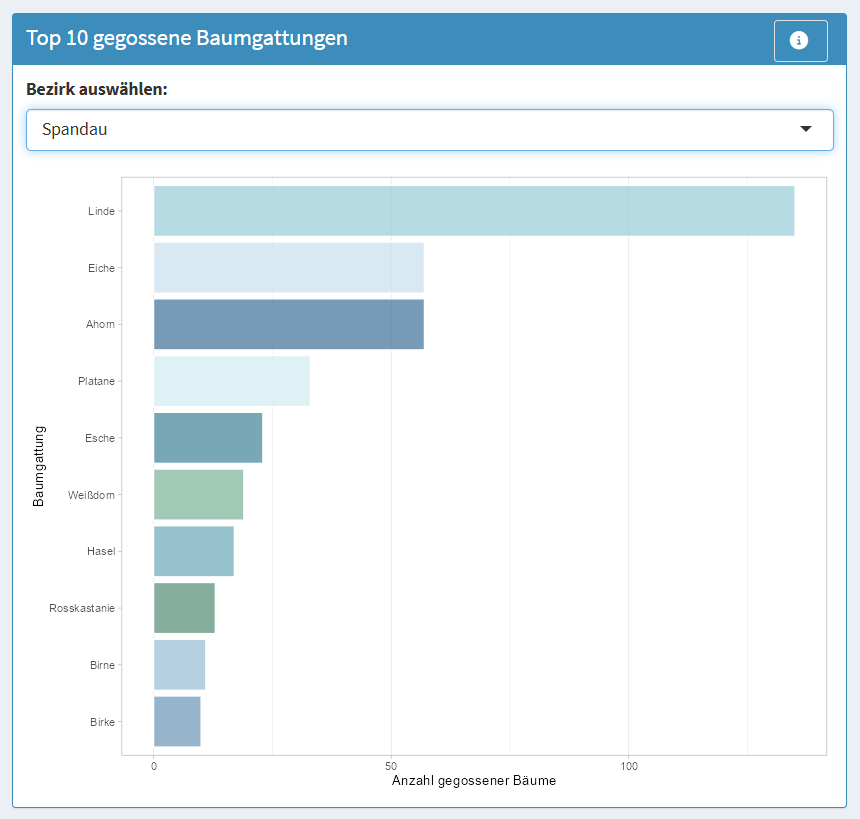
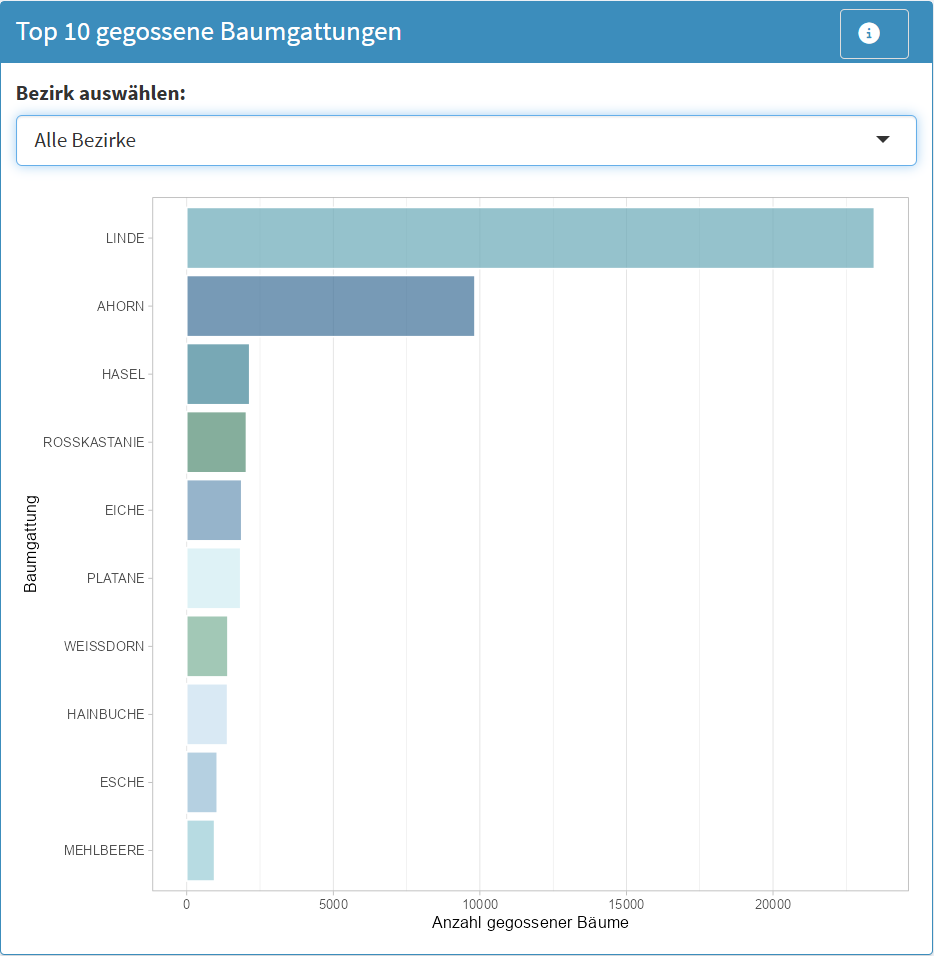
Sprache umgestellt, screenshot ausgewechselt und  manuell Nummerierte References zu Abbildungen mit automatischen ersetzt

diff --git a/dashboard/Übung_Baumstatistik.md b/dashboard/Übung_Baumstatistik.md
@@ -49,8 +49,8 @@ Damit soll die Grundlage geschaffen werden, zu verstehen, welche strukturellen F
 
 ```{figure} ../assets/Dashboard_Baumstatistik_1.png
 ---
-name: Dashboard Karte
-alt: Ein Screenshot, der zeigt Dashboard Karte
+name: Baumverteilung nach Bezirken mit Baumgattungen
+alt: Gestapeltes Balkendiagramm
 width: 600px
 ---
 Baumverteilung nach Bezirken und Baumgattungen. Die Abbildung zeigt die Verteilung der Bäume in den Berliner Bezirken, aufgeschlüsselt nach Baumgattungen. Die Anzahl der Bäume ist für jeden Bezirk als gestapeltes Balkendiagramm dargestellt, wobei die einzelnen Farbsegmente unterschiedliche Baumgattungen repräsentieren. Über einen Schieberegler kann die Anzahl der angezeigten, häufigsten Baumgattungen (Top-N) interaktiv angepasst werden, während weniger häufige Gattungen unter „Sonstige“ zusammengefasst sind. (Quelle: eigene Ausarbeitung)
@@ -60,8 +60,8 @@ Das obenstehende Diagramm ist ein Balkendiagramm, genauer gesagt ein gestapeltes
 
 ```{figure} ../assets/Dashboard_Baumstatistik_2.png
 ---
-name: Dashboard Karte
-alt: Ein Screenshot, der zeigt Dashboard Karte
+name: Verteilung der Baumgattungen
+alt: Kreisdiagramm mit Anteilen der Baumgattungen am Gesamtbestand
 width: 600px
 ---
 Verteilung der Baumgattungen. Die Abbildung zeigt die prozentuale Verteilung der Baumgattungen im Berliner Baumbestand in Form eines Kreisdiagramms. Über ein Auswahlfeld kann der betrachtete Bezirk festgelegt werden, wodurch sich die dargestellte Verteilung entsprechend anpasst. Die einzelnen Kreissegmente repräsentieren die Anteile der jeweiligen Baumgattungen am Gesamtbestand des ausgewählten Bezirks. (Quelle: eigene Ausarbeitung)
@@ -71,8 +71,8 @@ Das obenstehende Diagramm ist ein Kreisdiagramm (auch Tortendiagramm genannt), d
 
 ```{figure} ../assets/Dashboard_Baumstatistik_3.png
 ---
-name: Dashboard Karte
-alt: Ein Screenshot, der zeigt Dashboard Karte
+name: Top 10 gegossene Baumgattungen
+alt: Balkendiagramm entsprechend Titel mit Drop-down menü für Bezirke
 width: 600px
 ---
 Top 10 gegossene Baumgattungen. Die Abbildung zeigt die Top 10 gegossenen Baumgattungen in Berlin in Form eines horizontalen Balkendiagramms. Über ein Auswahlfeld kann der betrachtete Bezirk festgelegt werden, wodurch sich die dargestellten Werte entsprechend anpassen. Die Balken repräsentieren die absolute Anzahl gegossener Bäume je Gattung, wobei die Linde mit deutlichem Abstand an erster Stelle steht, gefolgt von Ahorn (ca. 250.000) und weiteren Gattungen mit jeweils deutlich geringeren Werten. Die x-Achse zeigt die Anzahl gegossener Bäume, die y-Achse die Baumgattungen. (Quelle: eigene Ausarbeitung)
@@ -80,8 +80,8 @@ Top 10 gegossene Baumgattungen. Die Abbildung zeigt die Top 10 gegossenen Baumga
 
 ```{figure} ../assets/Dashboard_Baumstatistik_4.png
 ---
-name: Dashboard Karte
-alt: Ein Screenshot, der zeigt Dashboard Karte
+name: Baumdichte pro qkm
+alt: Vertikales Balkendiagramm dem Titel entsprechend
 width: 600px
 ---
 Baumdichte pro km². Die Abbildung zeigt die Baumdichte pro km² in den verschiedenen Berliner Bezirken in Form eines vertikalen Balkendiagramms. Die Balken repräsentieren die jeweilige Baumdichte, wobei Friedrichshain-Kreuzberg die höchste Dichte aufweist. Die x-Achse zeigt die Bezirke, die y-Achse die Anzahl der Bäume pro km². Die Darstellung ermöglicht einen direkten Vergleich der Baumdichte zwischen den zwölf Berliner Bezirken. (Quelle: eigene Ausarbeitung)
@@ -90,7 +90,7 @@ Baumdichte pro km². Die Abbildung zeigt die Baumdichte pro km² in den verschie
 ```{admonition} Was Sie beachten sollten
 :class: keypoint
 
-Nur weil Indikatoren nicht auftauchen, heißt es nicht, dass sie nicht wichtig sein können. Für das Verständnis der obigen Abbildung 4.8 'Top 10 gegossene Baumgattungen' ist beispielsweise eine Information zur Häufigkeit von Baumarten (wie in Abb. 4.7 dargestellt) unabdingbar. Und für eine korrekte Analyse der Abbildung 4.9 'Baumdichte pro km²' braucht es mindestens Hinweise zur Größe der Bezirke. Möglichicherweise wären auch Indikatoren wie Bevölkerungsdichte sinnvoll, um die angegebenen Werte zu kontextualisieren. 
+Nur weil Indikatoren nicht auftauchen, heißt es nicht, dass sie nicht wichtig sein können. Für das Verständnis der obigen {numref}Top 10 gegossene Baumgattungen ist beispielsweise eine Information zur Häufigkeit von Baumarten (wie in {numref}Verteilung der Baumgattungen dargestellt) unabdingbar. Und für eine korrekte Analyse der {numref}Verteilung der Baumgattungen 'Baumdichte pro km²' braucht es mindestens Hinweise zur Größe der Bezirke. Möglichicherweise wären auch Indikatoren wie Bevölkerungsdichte sinnvoll, um die angegebenen Werte zu kontextualisieren. 
 
 Vor allem hinsichtlich der Interpretation von Datenvisualisierungen sollten Sie also darauf achten, sich nicht von den Indikatoren, die visuell hervorgehoben oder überhaupt dargestellt werden, in die Irre führen zu lassen. Es kann weitere Merkmale geben, die zum Verständnis oder der Analyse der Daten notwendig sind.
 

diff --git a/dashboard/Übung_Bewässerungsanalyse.md b/dashboard/Übung_Bewässerungsanalyse.md
@@ -33,8 +33,8 @@ Welche Geschichte erzählen die Daten, wenn man Liter statt Baumanzahl betrachte
 
 ```{figure} ../assets/Dashboard_Bewässerungsanalyse_1.png
 ---
-name: Dashboard Karte
-alt: Ein Screenshot, der zeigt Dashboard Karte
+name: Bewässerung pro Bezirk
+alt: Balkendiagramm Gesamte Bewässerungsmenge pro Bezirk
 width: 600px
 ---
 Balkendiagramm zur Bewässerung pro Bezirk (2020–2024). Die Abbildung zeigt die aggregierte Bewässerungsmenge in Millionen Litern für die einzelnen Berliner Bezirke im Zeitraum von 2020 bis 2024. Auf der x-Achse sind die Bezirke dargestellt, während die y-Achse die gesamte Bewässerungsmenge angibt. Das Diagramm ermöglicht einen direkten Vergleich der Bewässerungsintensität zwischen den Bezirken. (Quelle: eigene Ausarbeitung)
@@ -42,8 +42,8 @@ Balkendiagramm zur Bewässerung pro Bezirk (2020–2024). Die Abbildung zeigt di
 
 ```{figure} ../assets/Dashboard_Bewässerungsanalyse_2.png
 ---
-name: Dashboard Karte
-alt: Ein Screenshot, der zeigt Dashboard Karte
+name: Durchschnittliche Bewässerung pro gegossenem Baum
+alt: Baumdiagramm entsprechend dem Titel nach Bezirk
 width: 600px
 ---
 Durchschnittliche Bewässerungsmenge pro gegossenem Baum nach Bezirk. Die Abbildung zeigt die durchschnittliche Bewässerungsmenge pro gegossenem Baum in Litern für die einzelnen Berliner Bezirke. Auf der x-Achse sind die Bezirke dargestellt, während die y-Achse die durchschnittliche Bewässerungsmenge pro Baum angibt. Das Balkendiagramm verdeutlicht Unterschiede in der Bewässerungsintensität zwischen den Bezirken. (Quelle: eigene Ausarbeitung)

diff --git a/4_dash-prep/4.0_intro.md b/4_dash-prep/4.0_intro.md
@@ -26,11 +26,11 @@ Mit Ihren Rückmeldungen können wir unser interaktives Lehrbuch gezielt an Ihre
 :end-before: "<!-- END: Datenvisualisierung -->"
 ```
 
-Nachdem Sie im vorherigen Kapitel die Untersuchungsparameter festgelegt und die Datensätze bereinigt haben, widmen Sie sich dieses Kapitel der Vorbereitung des Dashboards, bevor Sie im nächsten Kapitel mit der explorativen Analyse mittels Visualisierungen beginnen können (s. Abb. 4.1).  
+Nachdem Sie im vorherigen Kapitel die Untersuchungsparameter festgelegt und die Datensätze bereinigt haben, widmen Sie sich dieses Kapitel der Vorbereitung des Dashboards, bevor Sie im nächsten Kapitel mit der explorativen Analyse mittels Visualisierungen beginnen können (s. {numref} steps of casestudy 3of4).  
 
 ```{figure} /assets/steps_cs3_3.png
 ---
-name: steps of casestudy
+name: steps of casestudy 3of4
 alt: Skizzenhafte Darstellung der 4 Schritte dieser Fallstudie mit Hervorhebung des 3. Schritts.
 ---
 Der 3. von 4 Abschnitten dieser Fallstudie.

diff --git a/dashboard/Übung_Zeitverlauf.md b/dashboard/Übung_Zeitverlauf.md
@@ -49,8 +49,8 @@ Die folgenden Visualisierungen zeigen deshalb sowohl **Trends im Jahresverlauf**
 
 ```{figure} ../assets/Dashboard_Zeitverlauf.png
 ---
-name: Dashboard Karte
-alt: Ein Screenshot, der zeigt Dashboard Karte
+name: Dashboard Zeitverlauf
+alt: Ein Screenshot, der die Zeitverlaufsseite des Dashboards zeigt
 width: 600px
 ---
 Zeitverlauf der Baumbewässerung (Quelle: eigene Ausarbeitung)

diff --git a/datenbasis/daten-vorbereitung.md b/datenbasis/daten-vorbereitung.md
@@ -10,7 +10,7 @@ Bevor Sie mit dem Bau eines Dashboards mit R Shiny beginnen können, müssen Sie
 ```{admonition} Story
 :class: story
 Dr. Amir Weber möchte sich zunächst einen schnellen Überblick verschaffen: Wie werden Bäume in Berlin gegossen und wie engagieren sich die Bürger:innen dabei? 
-Bei seiner Recherche nimmt er erneut die Plattform <a href="https://www.giessdenkiez.de/stats?lang=de" class="external-link" target="_blank">Gieß den Kiez</a> genauer unter die Lupe. Besonders beeindruckt ihn, wie anschaulich die Daten dort visualisiert sind (s. Abb. 4.1). Die Mischung aus Zahlen zu Bäumen und Gießenden, Karten und Zeitverläufen inspirieren ihn so sehr, dass er sie für seine eigene R-Shiny-Anwendung übernehmen möchte. Dazu benötigt er folgende Daten:
+Bei seiner Recherche nimmt er erneut die Plattform <a href="https://www.giessdenkiez.de/stats?lang=de" class="external-link" target="_blank">Gieß den Kiez</a> genauer unter die Lupe. Besonders beeindruckt ihn, wie anschaulich die Daten dort visualisiert sind {numref}Dashboard Gieß den Kiez. Die Mischung aus Zahlen zu Bäumen und Gießenden, Karten und Zeitverläufen inspirieren ihn so sehr, dass er sie für seine eigene R-Shiny-Anwendung übernehmen möchte. Dazu benötigt er folgende Daten:
 ```
 
 
@@ -239,8 +239,6 @@ Einige Bäume verfügen nicht über eine Angabe zu ihrem Bezirk. Um eine aggregi
 - Das Ergebnis führen Sie mit den ursprünglichen Daten wieder zusammen.
 
 **Code Erklärung:**
-
-<font color="red">Die [Quelle](https://daten.odis-berlin.de/de/dataset/bezirksgrenzen/) der geojson Datei wird im vorherigen Kapitel verlinkt, allerdings wird nicht gesagt, dass man diese herunterzuladen hat. Die Erklärung zur korrekten lokalen Speicherung und Pfadsetzung muss auch noch ausgearbeitet werden, da sich dies von Endgerät zu Endgerät unterscheidet.</font>
 
 **1. Die Bezirkskarte laden**
 

diff --git a/operationalisierung/fragestellung-operationalisierung.md b/operationalisierung/fragestellung-operationalisierung.md
@@ -27,11 +27,11 @@ Mit Ihren Rückmeldungen können wir unser interaktives Lehrbuch gezielt an Ihre
 ```
 
 
-In diesem einführenden Kapitel wird ein Erkenntnisinteresse formuliert, das in den nächsten Kapiteln die Vorbereitung, Aufbereitung und Analyse des Forschungsgegenstandes leitet (s. Abb. 2.1).
+In diesem einführenden Kapitel wird ein Erkenntnisinteresse formuliert, das in den nächsten Kapiteln die Vorbereitung, Aufbereitung und Analyse des Forschungsgegenstandes leitet (s. {numref}steps of casestudy 1of4).
 
 ```{figure} /assets/steps_cs3_1.png
 ---
-name: steps of casestudy
+name: steps of casestudy 1of4
 alt: Skizzenhafte Darstellung der 4 Schritte dieser Fallstudie mit Hervorhebung des 1. Schritts.
 ---
 Der 1. von 4 Abschnitten dieser Fallstudie.

diff --git a/4_dash-prep/4.1_dashboard.md b/4_dash-prep/4.1_dashboard.md
@@ -22,7 +22,7 @@ Ein weiteres Merkmal ist die Interaktivität von Dashboards. Häufig sind die do
 
 ## Welchen Vorteil bieten Dashboards für Public Sector Daten?
 
-Der wohl größte Vorteil von Veröffentlichungen von Daten als Visualisierungen auf Dashboards ist die Offenheit und Transparenz. Die z. B. von Bürger:innen erhobenen Daten werden offengelegt und in die Gesellschaft zurück kommuniziert. Dadurch entsteht ein Win-Win-Effekt: Verwaltungen machen ihre Arbeit nachvollziehbar und praktisch nutzbar, was zu positiver Wahrnehmung und Anerkennung führt und Bürger:innen erhalten aggregierte Daten, die so aufbereitet sind, dass sie leicht verständlich und nutzbar werden. Dabei reichen die Möglichkeiten von allgemeinen Informationen über den Wohnort (s. Abb. 4.1) und bis hin zu praktischen, alltagserleichternden Echtzeitdaten (s. Abb. 4.2). 
+Der wohl größte Vorteil von Veröffentlichungen von Daten als Visualisierungen auf Dashboards ist die Offenheit und Transparenz. Die z. B. von Bürger:innen erhobenen Daten werden offengelegt und in die Gesellschaft zurück kommuniziert. Dadurch entsteht ein Win-Win-Effekt: Verwaltungen machen ihre Arbeit nachvollziehbar und praktisch nutzbar, was zu positiver Wahrnehmung und Anerkennung führt und Bürger:innen erhalten aggregierte Daten, die so aufbereitet sind, dass sie leicht verständlich und nutzbar werden. Dabei reichen die Möglichkeiten von allgemeinen Informationen über den Wohnort (s. {numref}Dashboard Zensus 2022) und bis hin zu praktischen, alltagserleichternden Echtzeitdaten (s. {numref}Mobilitätsdashboard Aachen). 
 
 Dashboards sind damit auch ein Beispiel für die Kommunikation von Ergebnissen, die aus Datenerhebungen und -analysen hervorgehen.
 

diff --git a/dashboard/Dashboard.md b/dashboard/Dashboard.md
@@ -30,7 +30,7 @@ Für den Fall, dass Sie das Dashboard nicht selbst bauen wollen oder können, si
 
 ```{figure} /assets/steps_cs3_4.png
 ---
-name: steps of casestudy
+name: steps of casestudy 4of4
 alt: Skizzenhafte Darstellung der 4 Schritte dieser Fallstudie mit Hervorhebung des 4. Schritts.
 ---
 Der 4. von 4 Abschnitten dieser Fallstudie.

diff --git a/datenbasis/datenbasis-einleitung.md b/datenbasis/datenbasis-einleitung.md
@@ -22,7 +22,7 @@ Nachdem im vorherigen Kapitel [Fragestellung und Operationalisierung](frage-oper
 
 ```{figure} /assets/steps_cs3_2.png
 ---
-name: steps of casestudy
+name: steps of casestudy 2of4
 alt: Skizzenhafte Darstellung der 4 Schritte dieser Fallstudie mit Hervorhebung des 2. Schritts.
 ---
 Der 2. von 4 Abschnitten dieser Fallstudie.

diff --git a/intro.md b/intro.md
@@ -76,7 +76,7 @@ Die Zielgruppe sind zudem promovierende und promovierte Wissenschaftler:innen, a
 
 ## Struktur der Fallstudie
 
-Die Fallstudie ist in 4 Schritte aufgeteilt, die den Kapiteln entsprechen (s. Abb. 2). 
+Die Fallstudie ist in 4 Schritte aufgeteilt, die den Kapiteln entsprechen (s. {numref}steps of casestudy). 
 
 ```{figure} /assets/steps_cs3.png
 ---

diff --git a/operationalisierung/fragestellung.md b/operationalisierung/fragestellung.md
@@ -7,7 +7,7 @@ lang: de-DE
 
 Die Visualisierung von Daten hat vor allem im Public Sector großes Potential, da es dort viele statistische Erhebungen gibt, die direkt oder indirekt mit den Bürger:innen zusammenhängen.  
 Sucht man nach Wegen wie sich diese Daten veranschaulichen und niedrigschwellig an die Gesellschaft (zurück) kommunizieren lassen, stößt man schnell auf Dashboards.  
-Dashboards wie das in Abb. 2.1 gezeigte <a href="https://www.digitale-verwaltung.de/Webs/DV/DE/aktuelles-service/dashboard_digitale_verwaltung/dashboard-node.html" class="external-link" target="_blank">Dashboard Digitale Verwaltung</a>, erlauben es, Informationen gebündelt und grafisch aufbereitet präzise darzustellen.
+Dashboards wie das in {numref}Dashboard Digitale Verwaltung gezeigte <a href="https://www.digitale-verwaltung.de/Webs/DV/DE/aktuelles-service/dashboard_digitale_verwaltung/dashboard-node.html" class="external-link" target="_blank">Dashboard Digitale Verwaltung</a>, erlauben es, Informationen gebündelt und grafisch aufbereitet präzise darzustellen.
 
 ```{figure} /assets/DDV_Screenshot_20260317.png
 ---